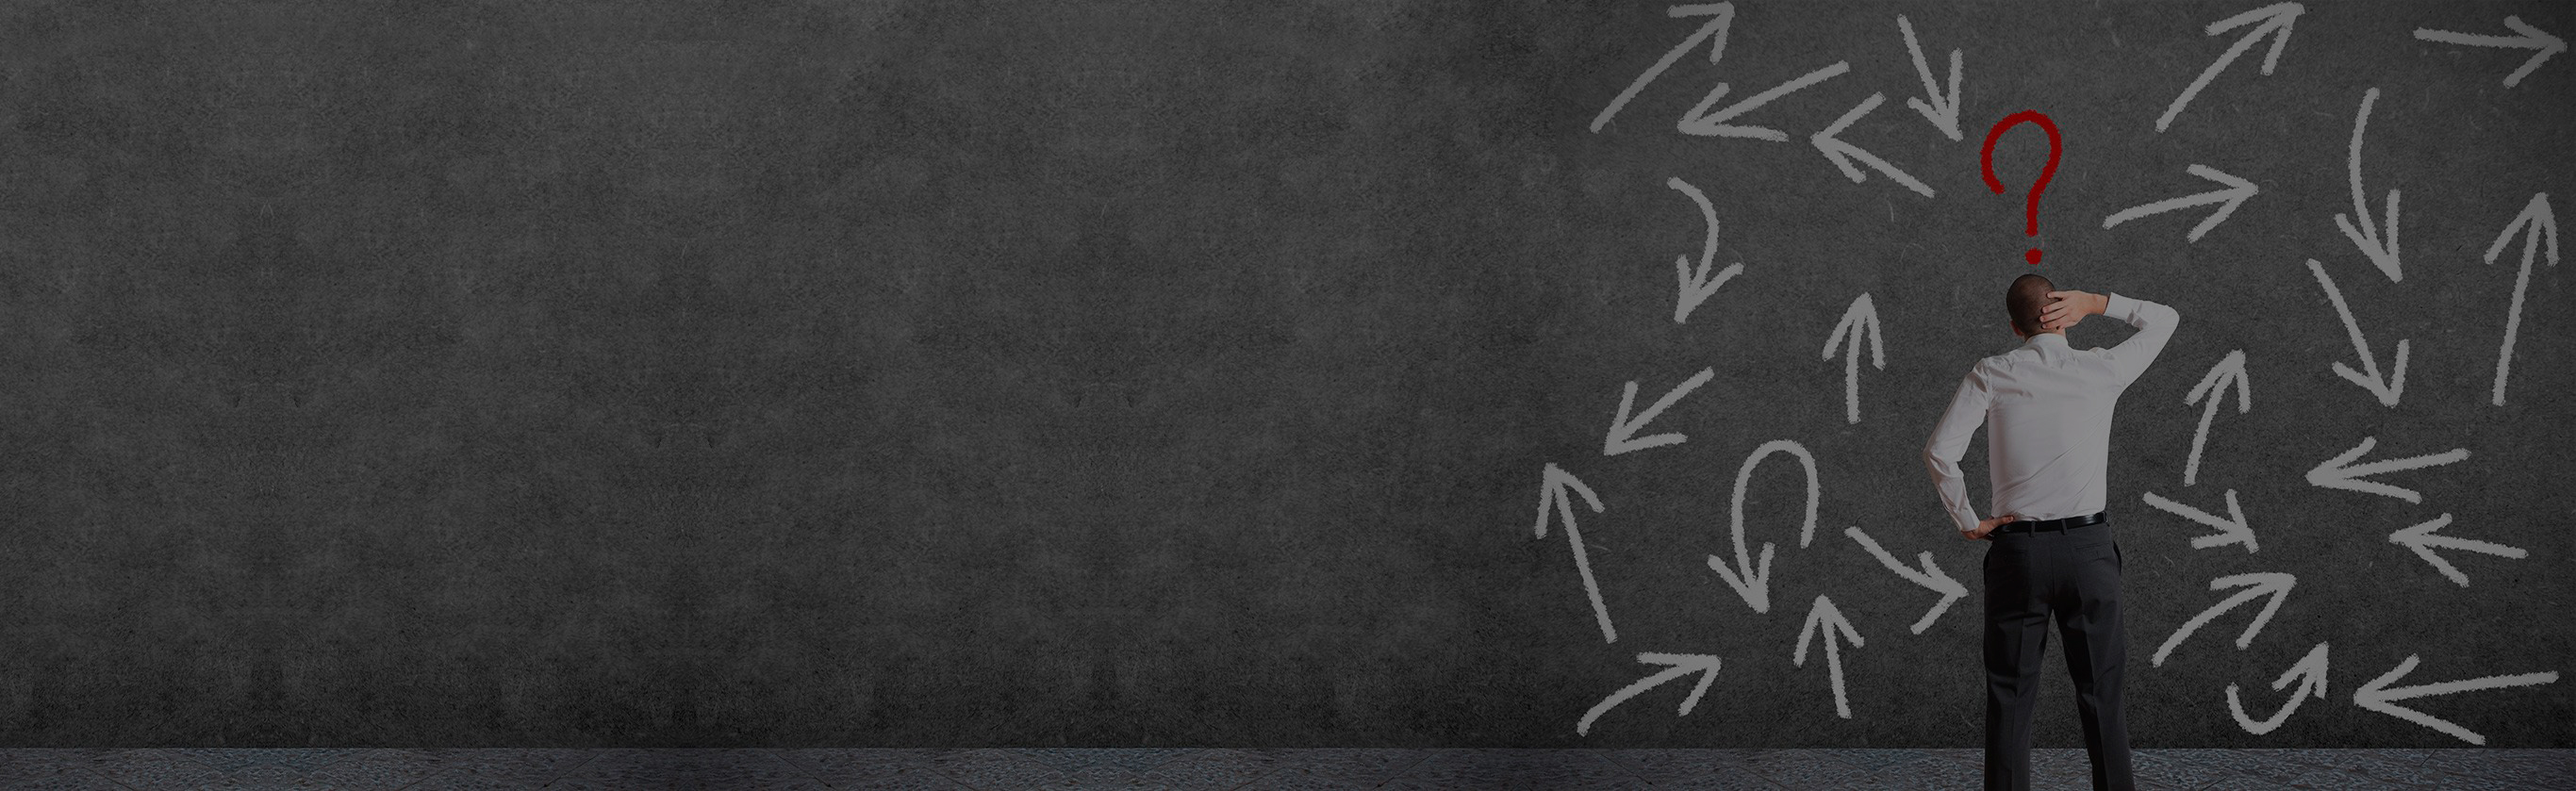
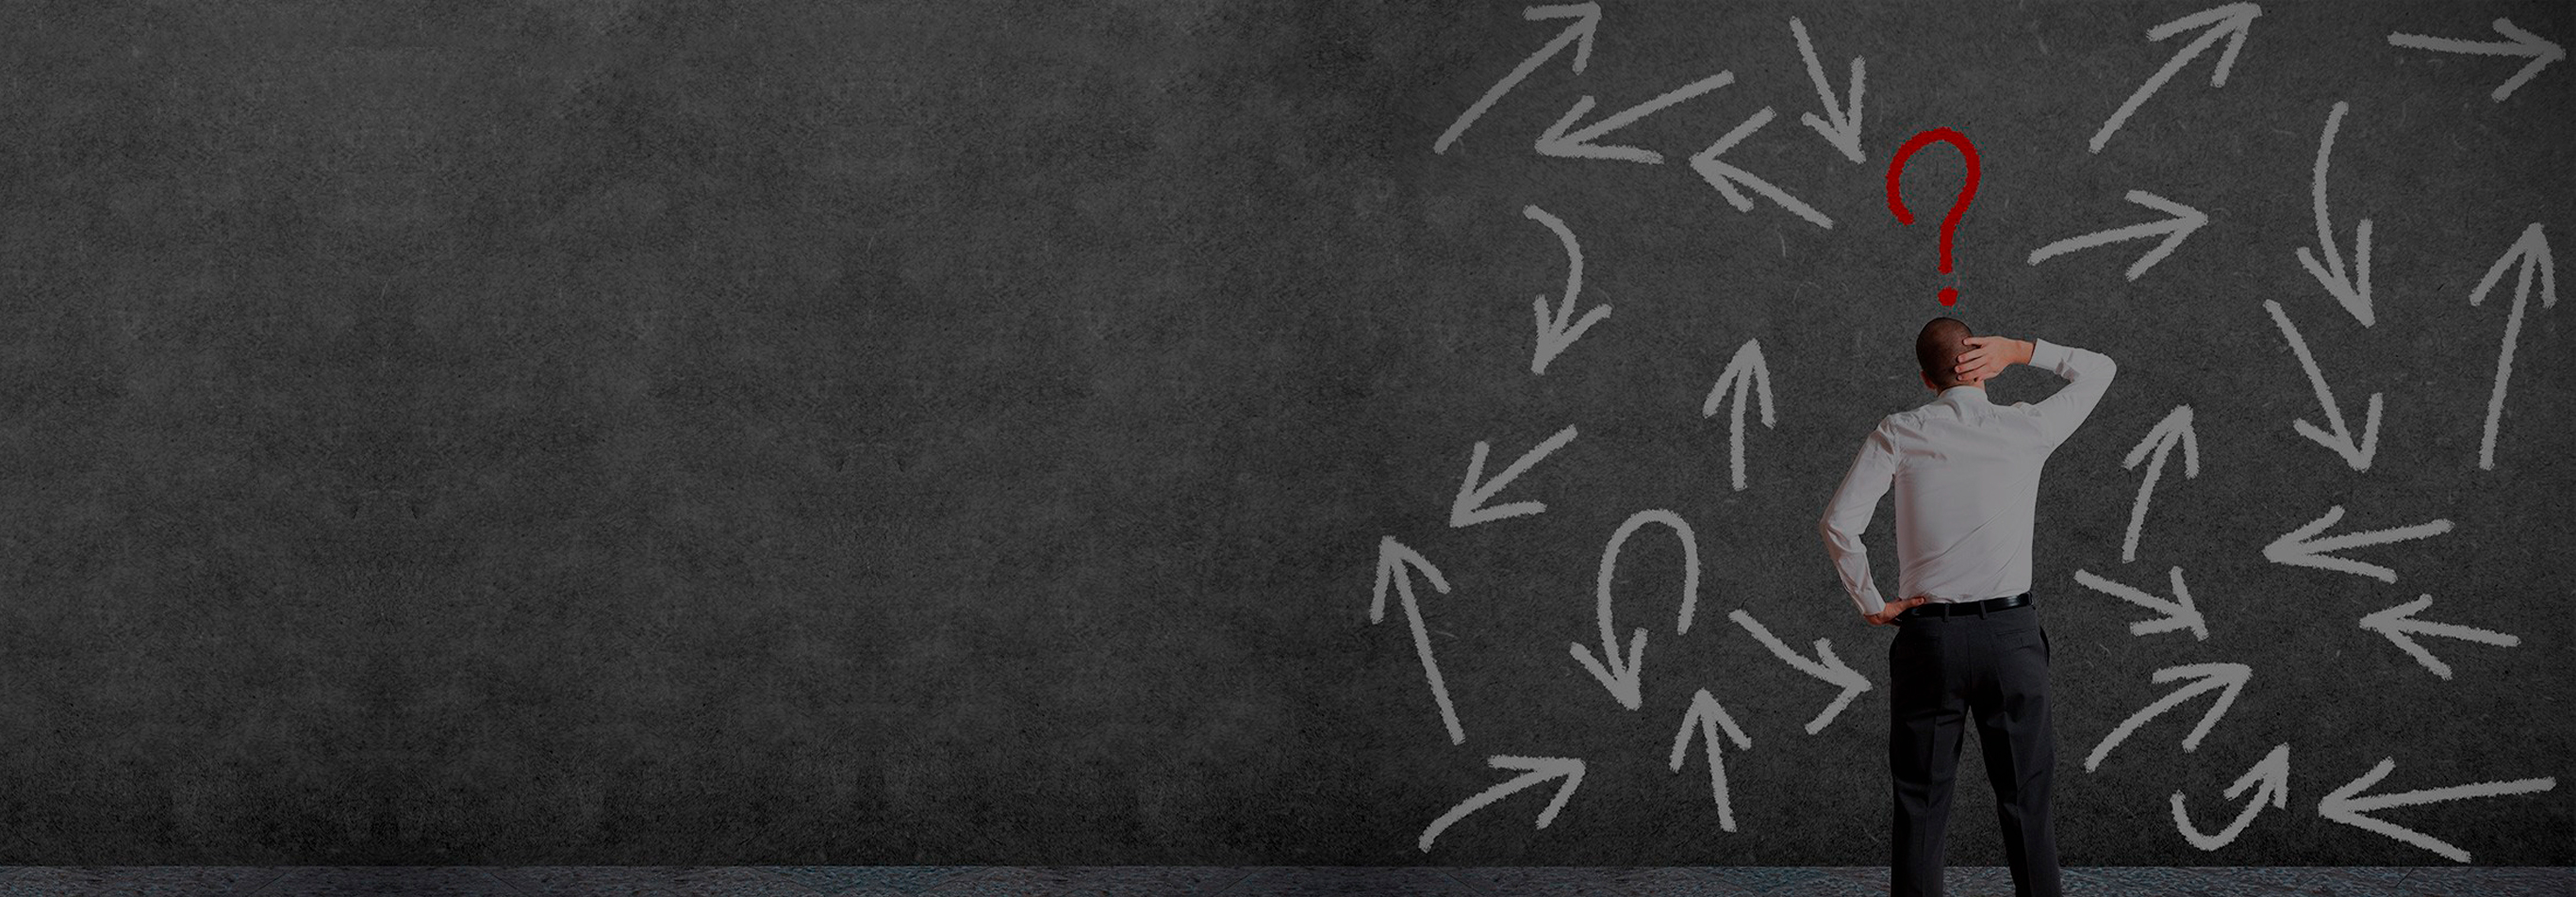
update

diff --git a/galeria.html b/galeria.html
@@ -71,6 +71,7 @@
       <ul id="tags" class="filtrar">
 
             <li class="opcion-principal btn filter" data-filter="all" ><a  >Todo</a></li>
+                                  <li class="opcion-principal btn filter"  data-filter=".dosmildiecisiete"><a  >2017</a></li>
                       <li class="opcion-principal btn filter"  data-filter=".dosmildieciseis"><a  >2016</a></li>
                           <li class="opcion-principal btn filter"  data-filter=".dosmilquince"><a  >2015</a></li>
                               <li class="opcion-principal btn filter"  data-filter=".dosmilcatorce"><a  >2014</a></li>
@@ -83,35 +84,183 @@
     
     
                 <section class="galeria2016">
+
+
+
+                     <div class="imagen-filtrable mix dosmildiecisiete">
+                                    <div class="imagen-filtro" style="background-image:url(img/imagen-2017-1.jpg); background-size:cover;"></div>
+                    <span class="etiqueta">Congreso 2017</span>
+                    </div>
+
+
+
+                     <div class="imagen-filtrable mix dosmildiecisiete">
+                                    <div class="imagen-filtro" style="background-image:url(img/imagen-2017-2.jpg); background-size:cover;"></div>
+                    <span class="etiqueta">Congreso 2017</span>
+                    </div>
+
+
+
+
+                     <div class="imagen-filtrable mix dosmildiecisiete">
+                                    <div class="imagen-filtro" style="background-image:url(img/imagen-2017-3.jpg); background-size:cover;"></div>
+                    <span class="etiqueta">Congreso 2017</span>
+                    </div>
+
+
+
+
+                     <div class="imagen-filtrable mix dosmildiecisiete">
+                                    <div class="imagen-filtro" style="background-image:url(img/imagen-2017-4.jpg); background-size:cover;"></div>
+                    <span class="etiqueta">Congreso 2017</span>
+                    </div>
+
+
+
+
+                     <div class="imagen-filtrable mix dosmildiecisiete">
+                                    <div class="imagen-filtro" style="background-image:url(img/imagen-2017-5.jpg); background-size:cover;"></div>
+                    <span class="etiqueta">Congreso 2017</span>
+                    </div>
+
+
+
+
+                     <div class="imagen-filtrable mix dosmildiecisiete">
+                                    <div class="imagen-filtro" style="background-image:url(img/imagen-2017-6.jpg); background-size:cover;"></div>
+                    <span class="etiqueta">Congreso 2017</span>
+                    </div>
+
+
+
+
+                     <div class="imagen-filtrable mix dosmildiecisiete">
+                                    <div class="imagen-filtro" style="background-image:url(img/imagen-2017-7.jpg); background-size:cover;"></div>
+                    <span class="etiqueta">Congreso 2017</span>
+                    </div>
+
+
+
+
+                     <div class="imagen-filtrable mix dosmildiecisiete">
+                                    <div class="imagen-filtro" style="background-image:url(img/imagen-2017-8.jpg); background-size:cover;"></div>
+                    <span class="etiqueta">Congreso 2017</span>
+                    </div>
+
+
+
+
+                     <div class="imagen-filtrable mix dosmildiecisiete">
+                                    <div class="imagen-filtro" style="background-image:url(img/imagen-2017-9.jpg); background-size:cover;"></div>
+                    <span class="etiqueta">Congreso 2017</span>
+                    </div>
+
+
+
+
+                     <div class="imagen-filtrable mix dosmildiecisiete">
+                                    <div class="imagen-filtro" style="background-image:url(img/imagen-2017-10.jpg); background-size:cover;"></div>
+                    <span class="etiqueta">Congreso 2017</span>
+                    </div>
+
+
+
+
+                     <div class="imagen-filtrable mix dosmildiecisiete">
+                                    <div class="imagen-filtro" style="background-image:url(img/imagen-2017-11.jpg); background-size:cover;"></div>
+                    <span class="etiqueta">Congreso 2017</span>
+                    </div>
+
+
+
+
+                     <div class="imagen-filtrable mix dosmildiecisiete">
+                                    <div class="imagen-filtro" style="background-image:url(img/imagen-2017-12.jpg); background-size:cover;"></div>
+                    <span class="etiqueta">Congreso 2017</span>
+                    </div>
+
+
+
+                     <div class="imagen-filtrable mix dosmildiecisiete">
+                                    <div class="imagen-filtro" style="background-image:url(img/imagen-2017-13.jpg); background-size:cover;"></div>
+                    <span class="etiqueta">Congreso 2017</span>
+                    </div>
+
+
+
+                     <div class="imagen-filtrable mix dosmildiecisiete">
+                                    <div class="imagen-filtro" style="background-image:url(img/imagen-2017-14.jpg); background-size:cover;"></div>
+                    <span class="etiqueta">Congreso 2017</span>
+                    </div>
+
+
+
+                     <div class="imagen-filtrable mix dosmildiecisiete">
+                                    <div class="imagen-filtro" style="background-image:url(img/imagen-2017-15.jpg); background-size:cover;"></div>
+                    <span class="etiqueta">Congreso 2017</span>
+                    </div>
+
+
+
+                     <div class="imagen-filtrable mix dosmildiecisiete">
+                                    <div class="imagen-filtro" style="background-image:url(img/imagen-2017-16.jpg); background-size:cover;"></div>
+                    <span class="etiqueta">Congreso 2017</span>
+                    </div>
+
+
+
+                     <div class="imagen-filtrable mix dosmildiecisiete">
+                                    <div class="imagen-filtro" style="background-image:url(img/imagen-2017-17.jpg); background-size:cover;"></div>
+                    <span class="etiqueta">Congreso 2017</span>
+                    </div>
+
+
+
+
+
     
                      <div class="imagen-filtrable mix dosmildieciseis">
                                     <div class="imagen-filtro" style="background-image:url(img/2016-foto-1.jpg); background-size:cover;"></div>
                     <span class="etiqueta">Congreso 2016</span>
                     </div>
+
     
-                            <div class="imagen-filtrable mix dosmildieciseis">
+                     <div class="imagen-filtrable mix dosmildieciseis">
                                     <div class="imagen-filtro" style="background-image:url(img/2016-foto-2.jpg); background-size:cover;"></div>
                                     <span class="etiqueta">Congreso 2016</span>
                             </div>
     
+
+
+
                             <div class="imagen-filtrable mix dosmildieciseis">
                                     <div class="imagen-filtro" style="background-image:url(img/2016-foto-3.jpg); background-size:cover;"></div>
                     <span class="etiqueta">Congreso 2016</span>
                     </div>
+
+
+
     
                             <div class="imagen-filtrable mix dosmildieciseis">
                                     <div class="imagen-filtro" style="background-image:url(img/2016-foto-4.jpg); background-size:cover;"></div>
                                     <span class="etiqueta">Congreso 2016</span>
                             </div>
+
+
+
                             <div class="imagen-filtrable mix dosmildieciseis">
                                     <div class="imagen-filtro" style="background-image:url(img/2016-foto-5.jpg); background-size:cover;"></div>
                     <span class="etiqueta">Congreso 2016</span>
                     </div>
+
+
     
                             <div class="imagen-filtrable mix dosmildieciseis">
                                     <div class="imagen-filtro" style="background-image:url(img/2016-foto-6.jpg); background-size:cover;"></div>
                                     <span class="etiqueta">Congreso 2016</span>
                             </div>
+
+
                             <div class="imagen-filtrable mix dosmildieciseis">
                                     <div class="imagen-filtro" style="background-image:url(img/2016-foto-7.jpg); background-size:cover;"></div>
                     <span class="etiqueta">Congreso 2016</span>
@@ -178,13 +327,15 @@
                                     <span class="etiqueta">Congreso 2014</span>
                             </div>
     
-                            <div class="imagen-filtrable mix dosmilcatorce">
-                                    <div class="imagen-filtro" style="background-image:url(img/imagen-2014-2.jpg); background-size:cover;"></div>
-                                    <span class="etiqueta">Congreso 2014</span>
-                            </div>
+                            
     
                             <div class="imagen-filtrable mix dosmilcatorce">
                                     <div class="imagen-filtro" style="background-image:url(img/imagen-2014-3.jpg); background-size:cover;"></div>
+                                    <span class="etiqueta">Congreso 2014</span>
+                            </div>
+
+                            <div class="imagen-filtrable mix dosmilcatorce">
+                                    <div class="imagen-filtro" style="background-image:url(img/imagen-2014-2.jpg); background-size:cover;"></div>
                                     <span class="etiqueta">Congreso 2014</span>
                             </div>
     
@@ -304,9 +455,7 @@ $('.sub-menu').toggleClass('active')
     
     
                                     },
-                                    load: {
-                                        sort: 'asc' // Ensure all targets start from hidden (i.e. display: none;)
-                                    }
+                                 
                                 });
     
                                 // Add a class to the container to remove 'visibility: hidden;' from targets. This

diff --git a/css/galeria.css b/css/galeria.css
@@ -1183,13 +1183,14 @@ li {
   height: 40px;
   color: white;
   padding: 0px;
+  font-size: 14px;
 }
 
 .filtrar {
   padding: 20px 0;
   width: 100%;
   margin: 0 auto;
-  max-width: 565px;
+  max-width: 600px;
   text-align: center;
 }
 .filtrar li {

diff --git a/css/style.css b/css/style.css
@@ -11,6 +11,8 @@
 
     background: url(../img/background-2-dd2-mob.jpg)!important;
     background-size:  cover!important;
+            background-position: bottom right!important;
+
   }
 
 @media only screen and (min-width: 700px){

diff --git a/entrevistas-2016.html b/entrevistas-2016.html
@@ -61,7 +61,7 @@
 <hr>
         <div class="contenedor-expos">
 
-                <h1>ENTREVISTAS 2016</h1>
+                <h1>ENTREVISTAS 2017</h1>
                     
                 
                 <div class="container">
